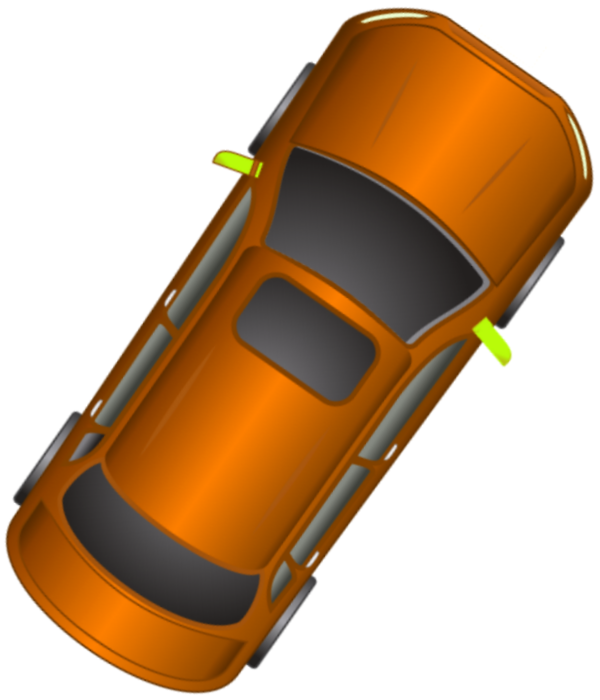
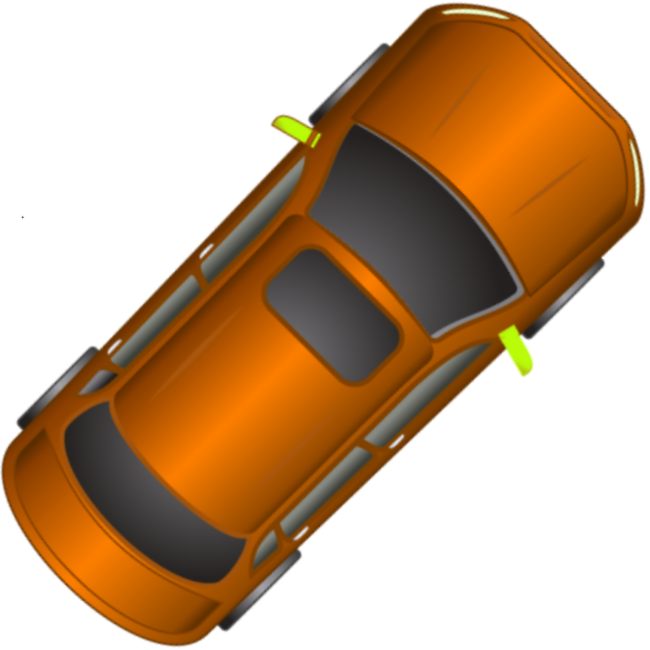
openpilot v0.7.9-release

Changed region(s): [[0.0, 0.0, 1.0, 1.0], [0.39, 0.4308, 0.57, 0.6154], [0.42, 0.4, 0.45, 0.4308]]

diff --git a/selfdrive/ui/paint.cc b/selfdrive/ui/paint.cc
@@ -1114,12 +1114,12 @@ static void bb_ui_draw_UI(UIState *s)
 
 static void ui_draw_vision_car(UIState *s) {
   const UIScene *scene = &s->scene;
-  const int car_size = 250;
-  const int car_x_left = (scene->viz_rect.centerX() - 500);
-  const int car_x_right = (scene->viz_rect.centerX() + 500);
+  const int car_size = 200;
+  const int car_x_left = (scene->viz_rect.centerX() - 550);
+  const int car_x_right = (scene->viz_rect.centerX() + 550);
   const int car_y = 700;
   const int car_img_size_w = (car_size * 1);
-  const int car_img_size_h = (car_size * 1.17);
+  const int car_img_size_h = (car_size * 1);
   const int car_img_x_left = (car_x_left - (car_img_size_w / 2));
   const int car_img_x_right = (car_x_right - (car_img_size_w / 2));
   const int car_img_y = (car_y - (car_size / 4));
